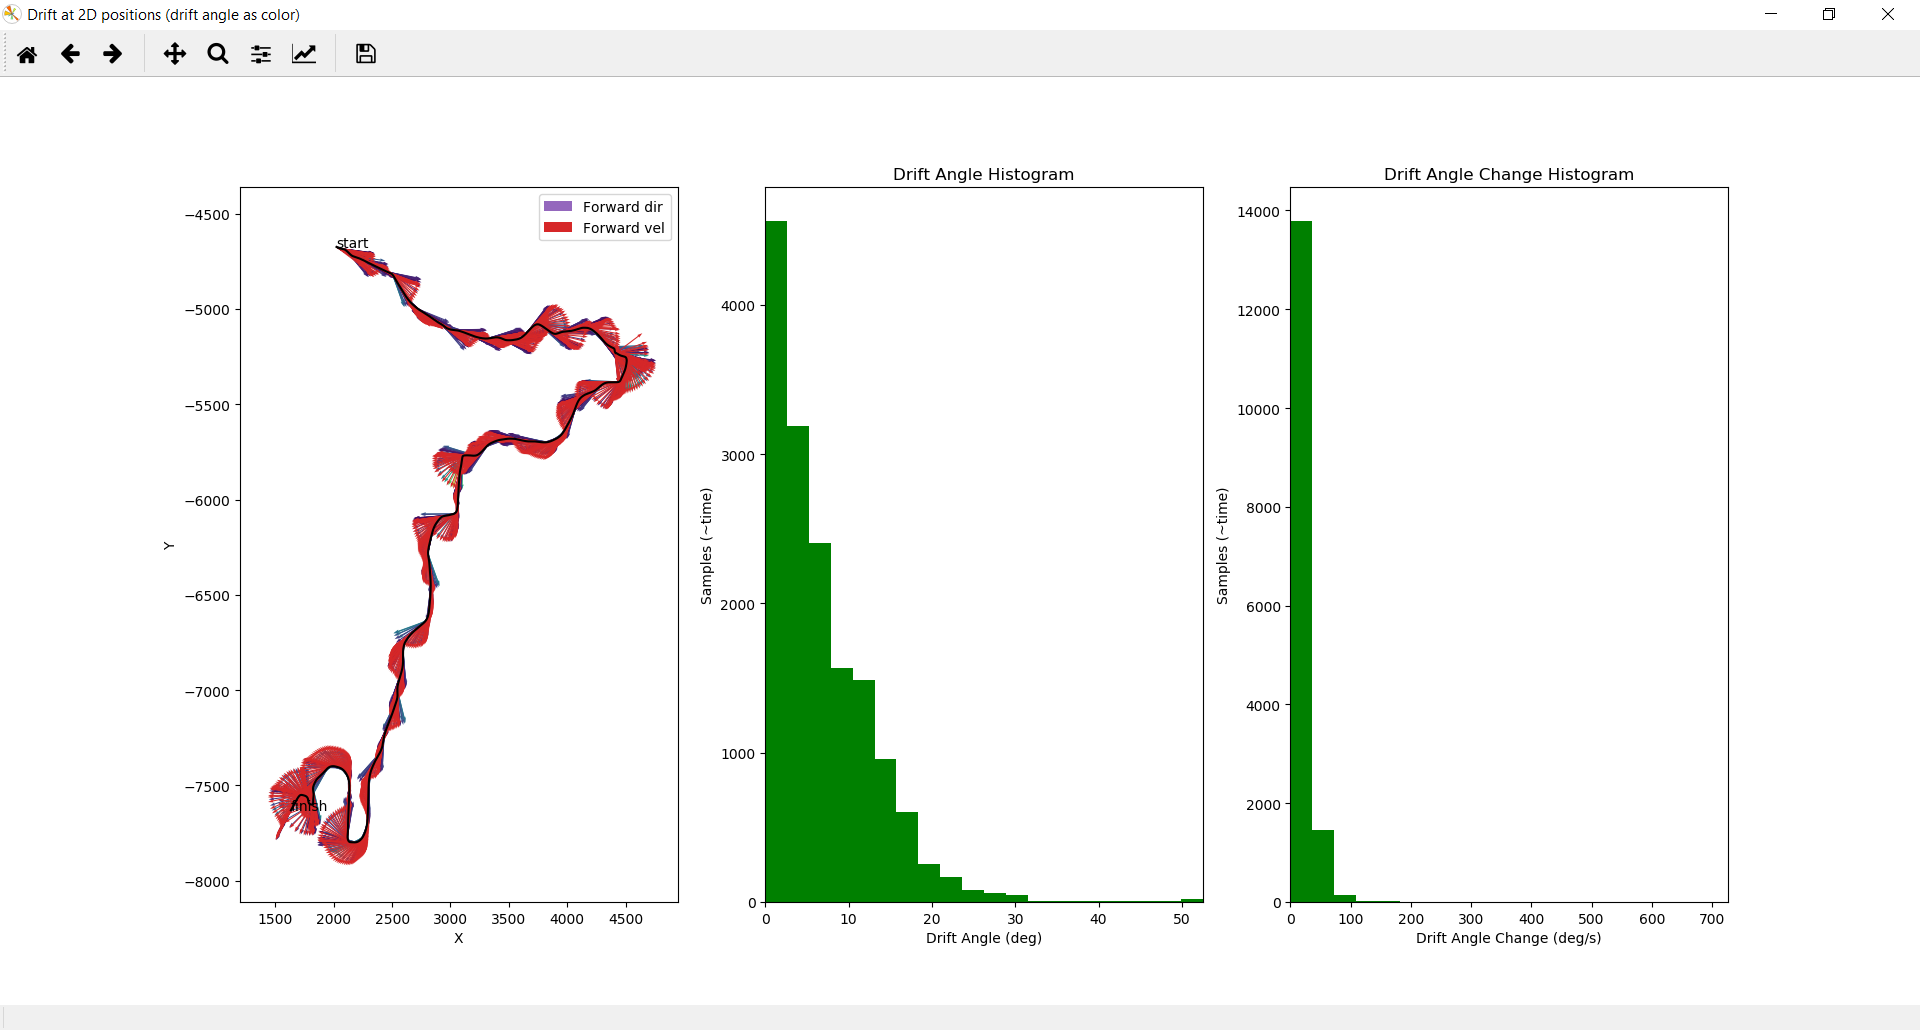
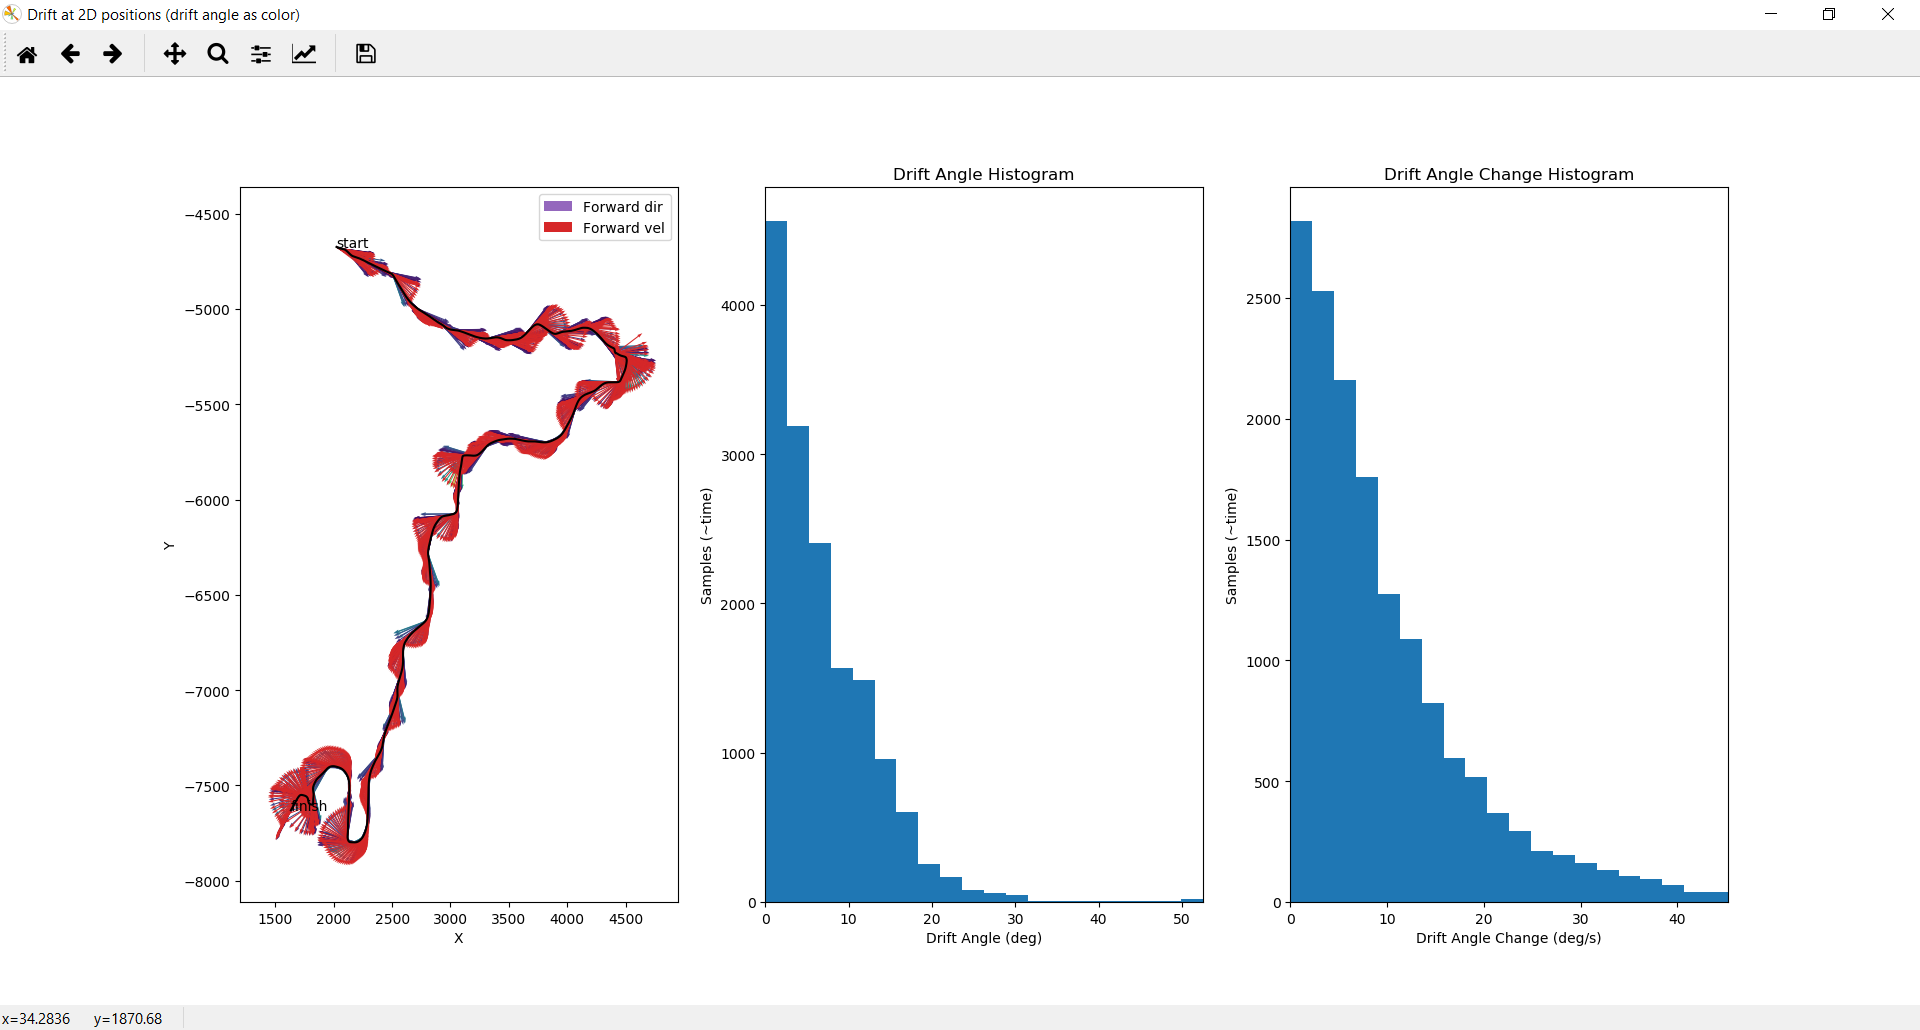
histogram for suspension, lines for rot vs susp

diff --git a/plots.py b/plots.py
@@ -41,11 +41,10 @@ def plot_main(session_data):
         drift_angle_change_histogram(ax[2], session_data)
         #drift_over_speed(ax[1][1], session_data)
 
-        fig, ax = plt.subplots(3, 1, sharex=True)
+        fig, ax = plt.subplots(2, 1, sharex=True)
         fig.canvas.set_window_title('Suspension')
-        suspension_over_time(ax[0], session_data)
-        suspension_lr_fr_over_time(ax[1], session_data)
-        inputs_over_time(ax[2], session_data)
+        suspension_histogram(ax[0], session_data)
+        suspension_l_r_f_r_histogram(ax[1], session_data)
 
         fig, ax = plt.subplots(3, 1, sharex=True)
         fig.canvas.set_window_title('Wheel Speed')
@@ -53,10 +52,11 @@ def plot_main(session_data):
         wheel_speed_lr_fr_over_time(ax[1], session_data)
         inputs_over_time(ax[2], session_data)
 
-        fig, ax = plt.subplots(2, 1, sharex=True)
+        fig, ax = plt.subplots(3, 1, sharex=True)
         fig.canvas.set_window_title('Rotation vs Suspension')
         rotation_over_time(ax[0], session_data)
         suspension_lr_fr_angles_over_time(ax[1], session_data)
+        suspension_l_r_f_r_over_time(ax[2], session_data)
 
         plt.show()
 
@@ -96,7 +96,7 @@ def plot_over_2d_pos(ax, session_data, lines_x, lines_y, scale, alpha, title, la
         ax.scatter(x=lines_x[i], y=lines_y[i], s=scale, alpha=alpha, label=labels[i])
     ax.set_xlim(x_middle - diff_max * 0.6, x_middle + diff_max * 0.6)
     ax.set_ylim(y_middle - diff_max * 0.6, y_middle + diff_max * 0.6)
-    if len(labels) > 1:
+    if labels is not None and len(labels) > 1:
         ax.legend()
     ax.text(x[0], y[0], 'start')
     ax.text(x[-1], y[-1], 'finish')
@@ -112,7 +112,7 @@ def scatter_plot(ax, x_points, y_points, title, labels, colors, scales, alphas, 
     ax.set_xlabel(x_label)
     ax.set_ylabel(y_label)
     ax.set_title(title)
-    if len(labels) > 1:
+    if labels is not None and len(labels) > 1:
         ax.legend()
 
 
@@ -126,7 +126,7 @@ def line_plot(ax, x_points, y_points, title, labels, alpha, x_label, y_label,
         ax.plot(x_points[i], y_points[i], alpha=alpha)
     ax.set_xlabel(x_label)
     ax.set_ylabel(y_label)
-    if len(labels) > 1:
+    if labels is not None and len(labels) > 1:
         ax.legend(labels)
     ax.grid(True)
     ax.set_title(title)
@@ -151,16 +151,18 @@ def line_plot(ax, x_points, y_points, title, labels, alpha, x_label, y_label,
         ax.set_ylim(y_points[arg_y_max] + y_diff * 0.1, y_points[arg_y_min] - y_diff * 0.1)
 
 
-def histogram_plot(ax, samples, title, x_label, y_label, min=None, max=None, num_bins=20, color='g'):
+def histogram_plot(ax, samples, title, x_label, y_label, labels=None, min=None, max=None, num_bins=20, color=None):
 
         if min is None:
             min = samples.min()
         if max is None:
             max = samples.max()
-        n, bins, patches = ax.hist(samples, num_bins, facecolor=color)
+        n, bins, patches = ax.hist(list(samples), num_bins, color=color, label=labels)
         ax.set_xlabel(x_label)
         ax.set_ylabel(y_label)
         ax.set_xlim(min, max)
+        if labels is not None and len(labels) > 1:
+            ax.legend(labels)
         ax.set_title(title)
 
 
@@ -223,7 +225,7 @@ def plot_rpm_histogram_per_gear(session_data):
 
         histogram_plot(ax=a[i], samples=rpm_per_gear,
                        title='G{0}: {1:.1f}%'.format(int(gear), samples_gear_ratio * 100.0),
-                       x_label='RPM', y_label='Samples (~time)', min=rpm_min, max=rpm_max, num_bins=20, color='g')
+                       x_label='RPM', y_label='Samples (~time)', labels=None, min=rpm_min, max=rpm_max, num_bins=20)
 
 
 def inputs_over_time(ax, session_data):
@@ -266,7 +268,7 @@ def suspension_lr_fr_over_time(ax, session_data):
     susp_rr = session_data[networking.fields['susp_rr']]
     susp_left_right = (susp_fl + susp_rl) * 0.5 - (susp_fr + susp_rr) * 0.5
     susp_front_rear = (susp_fl + susp_fr) * 0.5 - (susp_rl + susp_rr) * 0.5
-    susp_data = [susp_left_right, susp_front_rear]
+    susp_data = np.array([susp_left_right, susp_front_rear])
 
     labels = ['left-right', 'front-rear']
     x_points = np.array([lap_time] * len(susp_data))
@@ -275,6 +277,71 @@ def suspension_lr_fr_over_time(ax, session_data):
     line_plot(ax, x_points=x_points, y_points=y_points, title='Suspension dislocation difference over lap time',
               labels=labels, alpha=0.5, x_label='Lap time (s)',
               y_label='Suspension dislocation difference (mm)', flip_y=True, min_max_annotations=True)
+
+
+def suspension_l_r_f_r_over_time(ax, session_data):
+
+    lap_time = session_data[networking.fields['lap_time']]
+    susp_fl = session_data[networking.fields['susp_fl']]
+    susp_fr = session_data[networking.fields['susp_fr']]
+    susp_rl = session_data[networking.fields['susp_rl']]
+    susp_rr = session_data[networking.fields['susp_rr']]
+    susp_left = (susp_fl + susp_rl) * 0.5
+    susp_right = (susp_fr + susp_rr) * 0.5
+    susp_front = (susp_fl + susp_fr) * 0.5
+    susp_rear = (susp_rl + susp_rr) * 0.5
+    susp_data = np.array([susp_left, susp_right, susp_front, susp_rear])
+
+    labels = ['left', 'right', 'front', 'rear']
+    x_points = np.array([lap_time] * len(susp_data))
+    y_points = np.array(susp_data)
+
+    line_plot(ax, x_points=x_points, y_points=y_points, title='Average suspension dislocation over lap time',
+              labels=labels, alpha=0.5, x_label='Lap time (s)',
+              y_label='Suspension dislocation (mm)', flip_y=True, min_max_annotations=True)
+
+
+def suspension_histogram(ax, session_data):
+
+    time_differences = data_processing.differences(session_data[networking.fields['lap_time']])
+    susp_fl = session_data[networking.fields['susp_fl']]
+    susp_fr = session_data[networking.fields['susp_fr']]
+    susp_rl = session_data[networking.fields['susp_rl']]
+    susp_rr = session_data[networking.fields['susp_rr']]
+    susp_data = np.array([susp_fl, susp_fr, susp_rl, susp_rr])
+    susp_min = susp_data.min()
+    susp_max = susp_data.max()
+    susp_min_ids = (susp_min == susp_data)
+    susp_max_ids = (susp_max == susp_data)
+    labels = ['front left', 'front right', 'rear left', 'rear right']
+    labels = [l + ', bump min: {:.2f}s, bump max: {:.2f}s'.format(
+        time_differences[susp_min_ids[li]].sum(), time_differences[susp_max_ids[li]].sum())
+              for li, l in enumerate(labels)]
+
+    histogram_plot(ax, samples=susp_data,
+                   title='Suspension dislocation histogram, min: {} mm, max: {} mm'.format(susp_min, susp_max),
+                   x_label='Suspension dislocation (mm)', y_label='Samples (~time)',
+                   labels=labels, min=susp_min, max=susp_max, num_bins=20)
+
+
+def suspension_l_r_f_r_histogram(ax, session_data):
+
+    susp_fl = session_data[networking.fields['susp_fl']]
+    susp_fr = session_data[networking.fields['susp_fr']]
+    susp_rl = session_data[networking.fields['susp_rl']]
+    susp_rr = session_data[networking.fields['susp_rr']]
+    susp_left = (susp_fl + susp_rl) * 0.5
+    susp_right = (susp_fr + susp_rr) * 0.5
+    susp_front = (susp_fl + susp_fr) * 0.5
+    susp_rear = (susp_rl + susp_rr) * 0.5
+    susp_data = np.array([susp_left, susp_right, susp_front, susp_rear])
+    susp_min = susp_data.min()
+    susp_max = susp_data.max()
+    labels = ['left', 'right', 'front', 'rear']
+
+    histogram_plot(ax, samples=susp_data, title='Average Suspension Dislocation Histogram',
+                   x_label='Average Suspension Dislocation (mm)', y_label='Samples (~time)',
+                   labels=labels, min=susp_min, max=susp_max, num_bins=20)
 
 
 def plot_height_over_dist(ax, session_data):
@@ -416,7 +483,7 @@ def wheel_speed_over_time(ax, session_data):
     wsp_fr = session_data[networking.fields['wsp_fr']]
     wsp_rl = session_data[networking.fields['wsp_rl']]
     wsp_rr = session_data[networking.fields['wsp_rr']]
-    wsp_data = [wsp_fl, wsp_fr, wsp_rl, wsp_rr, ]
+    wsp_data = np.array([wsp_fl, wsp_fr, wsp_rl, wsp_rr])
 
     labels = ['front left', 'front right', 'rear left', 'rear right']
     x_points = np.array([lap_time] * len(wsp_data))
@@ -435,7 +502,7 @@ def wheel_speed_lr_fr_over_time(ax, session_data):
     wsp_rr = session_data[networking.fields['wsp_rr']]
     wsp_left_right = (wsp_fl + wsp_rl) * 0.5 - (wsp_fr + wsp_rr) * 0.5
     wsp_front_rear = (wsp_fl + wsp_fr) * 0.5 - (wsp_rl + wsp_rr) * 0.5
-    wsp_data = [wsp_left_right, wsp_front_rear]
+    wsp_data = np.array([wsp_left_right, wsp_front_rear])
 
     labels = ['left-right', 'front-rear']
     x_points = np.array([lap_time] * len(wsp_data))
@@ -450,7 +517,7 @@ def drift_over_speed(ax, session_data):
     steering = np.abs(session_data[networking.fields['steering']])
     speed_ms = session_data[networking.fields['speed_ms']]
     drift_angle_deg = data_processing.get_drift_angle(session_data)
-    drift_angle_deg_der = data_processing.derive(
+    drift_angle_deg_der = data_processing.derive_no_nan(
         drift_angle_deg, time_steps=session_data[networking.fields['lap_time']])
 
     # filter very slow parts
@@ -491,7 +558,7 @@ def drift_angle_histogram(ax, session_data):
 def drift_angle_change_histogram(ax, session_data):
     speed_ms = session_data[networking.fields['speed_ms']]
     drift_angle_deg = data_processing.get_drift_angle(session_data)
-    drift_angle_deg_der = data_processing.derive(
+    drift_angle_deg_der = data_processing.derive_no_nan(
         drift_angle_deg, time_steps=session_data[networking.fields['lap_time']])
 
     # filter very slow parts
@@ -500,7 +567,7 @@ def drift_angle_change_histogram(ax, session_data):
     drift_angle_deg_der = np.abs(drift_angle_deg_der)
 
     # filter out rare extreme values
-    outlier_threshold = np.percentile(drift_angle_deg_der, 99)
+    outlier_threshold = np.nanpercentile(drift_angle_deg_der, 99)
     usual_values = drift_angle_deg_der < outlier_threshold
     drift_angle_deg_der = drift_angle_deg_der[usual_values]
 
@@ -533,7 +600,7 @@ def rotation_over_time(ax, session_data):
     y_points = np.array([sideward_angle_deg, forward_angle_deg])
 
     line_plot(ax, x_points=x_points, y_points=y_points,
-              title='Rotation Angles',
+              title='Rotation Angles over Lap Time',
               labels=labels, alpha=0.5, x_label='Lap Time (s)',
               y_label='Angle (deg)', min_max_annotations=True)
 
@@ -555,7 +622,7 @@ def suspension_lr_fr_angles_over_time(ax, session_data):
     angle_left_right = height_diff_to_angle(susp_left_right / 1000.0, 1.800)
     angle_front_rear = height_diff_to_angle(susp_front_rear / 1000.0, 2.200)
 
-    angle_data = [-angle_left_right, -angle_front_rear]
+    angle_data = np.array([-angle_left_right, -angle_front_rear])
 
     labels = ['left-right angle', 'front-rear angle']
     x_points = np.array([lap_time] * len(angle_data))

diff --git a/data_processing.py b/data_processing.py
@@ -64,13 +64,30 @@ def get_min_middle_max(x):
     return x_min, x_middle, x_max
 
 
-def derive(x, time_steps):
-    time_prev = np.concatenate((np.array([x[0]]), x[:-1]))
-    time_diff = time_steps - time_prev
-
+def differences(x):
     x_prev = np.concatenate((np.array([x[0]]), x[:-1]))
-    x_derived = x - x_prev
-    x_derived /= time_diff
+    x_diff = x - x_prev
+    return x_diff
+
+
+def derive_nan(x, time_steps):
+    time_diff = differences(time_steps)
+    x_diff = differences(x)
+    x_derived = x_diff / time_diff
+    return x_derived
+
+
+def derive_no_nan(x, time_steps):
+    """
+    Prevent nan
+    :param x:
+    :param time_steps:
+    :return:
+    """
+    time_diff = differences(time_steps)
+    time_diff[time_diff == 0.0] = np.finfo(time_diff.dtype).eps
+    x_diff = differences(x)
+    x_derived = x_diff / time_diff
     return x_derived
 
 

diff --git a/README.md b/README.md
@@ -54,7 +54,7 @@ This plot shows the speed at varying RPM. The blue series of points in the lower
 
 ![Drift](img/drift.png)
 
-In this plot, you can see the forward direction of the car and its movement direction. The more these vectors disagree, the more your car is drifting. The histogram in the middle shows how often you drifted how much while the right histogram shows how fast the drift angle changed. The Evo VI is a rather easy to control car. The histograms tell that the drift angle was mostly below 20 degree and the angular velocity was rather low all the time. This supports the claim that the car can be controlled with the current setup. 
+In this plot, you can see the forward direction of the car and its movement direction. The more these vectors disagree, the more your car is drifting. The histogram in the middle shows how often you drifted how much while the right histogram shows how fast the drift angle changed. The Evo VI is a rather easy to control car. The histograms tell that the drift angle was mostly below 20 degree. The angular velocity was also mostly below 20 degrees per second and therefore quite controlled. This supports the claim that the car can be controlled with the current setup. 
 
 ![Wheel Speed](img/wheel_speed.png)
 
@@ -66,9 +66,9 @@ Let's analyze the 'bubble' in the middle of the upper graph in more detail. Here
 
 ![Suspension](img/suspension.png)
 
-Similar to the previous plot, this one shows the suspension dislocation of individual wheels and compares sides of the car. A negative dislocation means that the spring is compressed. The many flat tops in the upper graph show that the suspension regularly hits the bump stops, which is very bad for the stability. This can even send you in the air and cause crashes. If you see such a behavior, you should definitely increase the ride height. If it's already at the limit, you can still stiffen the springs and damping. Better a harder suspension than hitting the bump stops.
+This plot shows the suspension dislocation of individual wheels and compares sides of the car. A negative dislocation means that the spring is compressed. Quite often, the springs were fully compressed at -100 mm. Since there is no information transmitted from DR2, we can only assume that the bump stops were hit at this dislocation. Hitting the bump stops is very bad for the stability and can cause crashes. If you see such a behavior, you should definitely increase the ride height. If it's already at the limit, you can still stiffen the springs and damping. Better a harder suspension than hitting the bump stops.
 
-The middle graph displays a large positive blue peak. This means that the left springs are considerably more compressed than the right springs. A look at the upper graph shows that mostly the rear springs are affected here. Therefore, you should probably stiffen the rear stabilizer.
+The lower graph displays the averaged front/back and left/right statistics. You can see that the rear springs are more often fully compressed. Therefore, you should probably stiffen the rear springs or dampers.
 
 ![Rotation vs Suspension](img/rot_vs_susp.png)
 
@@ -76,11 +76,11 @@ This last plot (for now) compares spring dislocation with car roll and pitch. Wi
 
 The suspension angles are approximated for the width and length of the Audi Quattro S1. So, the absolute values of the suspension rotation graph will be off for other cars. But we care mostly for the relation between both graphs, anyway.
 
-In the upper graph with the car rotations, we can see that the lines have much lower frequencies than the lower graph with the suspension angles, as it should be. However, we can also see rather high frequencies in some parts of the car rotation graph. This is likely caused by springs hitting the bump stops or maybe, the car body touches the road. We can again see that there is more roll than pitch. So, the front-rear setup is probably ok, while the left-right setup needs more space or stiffness.
+In the upper graph with the car rotations, we can see that the lines have much lower frequencies than the middle graph with the suspension angles, as it should be. Looking at the center of the car rotation graph (upper graph),we see that the car rotates quickly backwards because the springs (middle graph) could not compensate the pressure anymore since they were already fully compressed (lower graph). This was probably the landing after a longer jump.
 
 ## Raw Data ##
 
-I can only use the information I get from Dirt Rally 2.0 via UDP. Currently this is:
+I can only use the information I get from Dirt Rally 2.0 via UDP. This is Currently:
 
 1. run time (starts after loading screen)
 1. lap time (starts after countdown)
